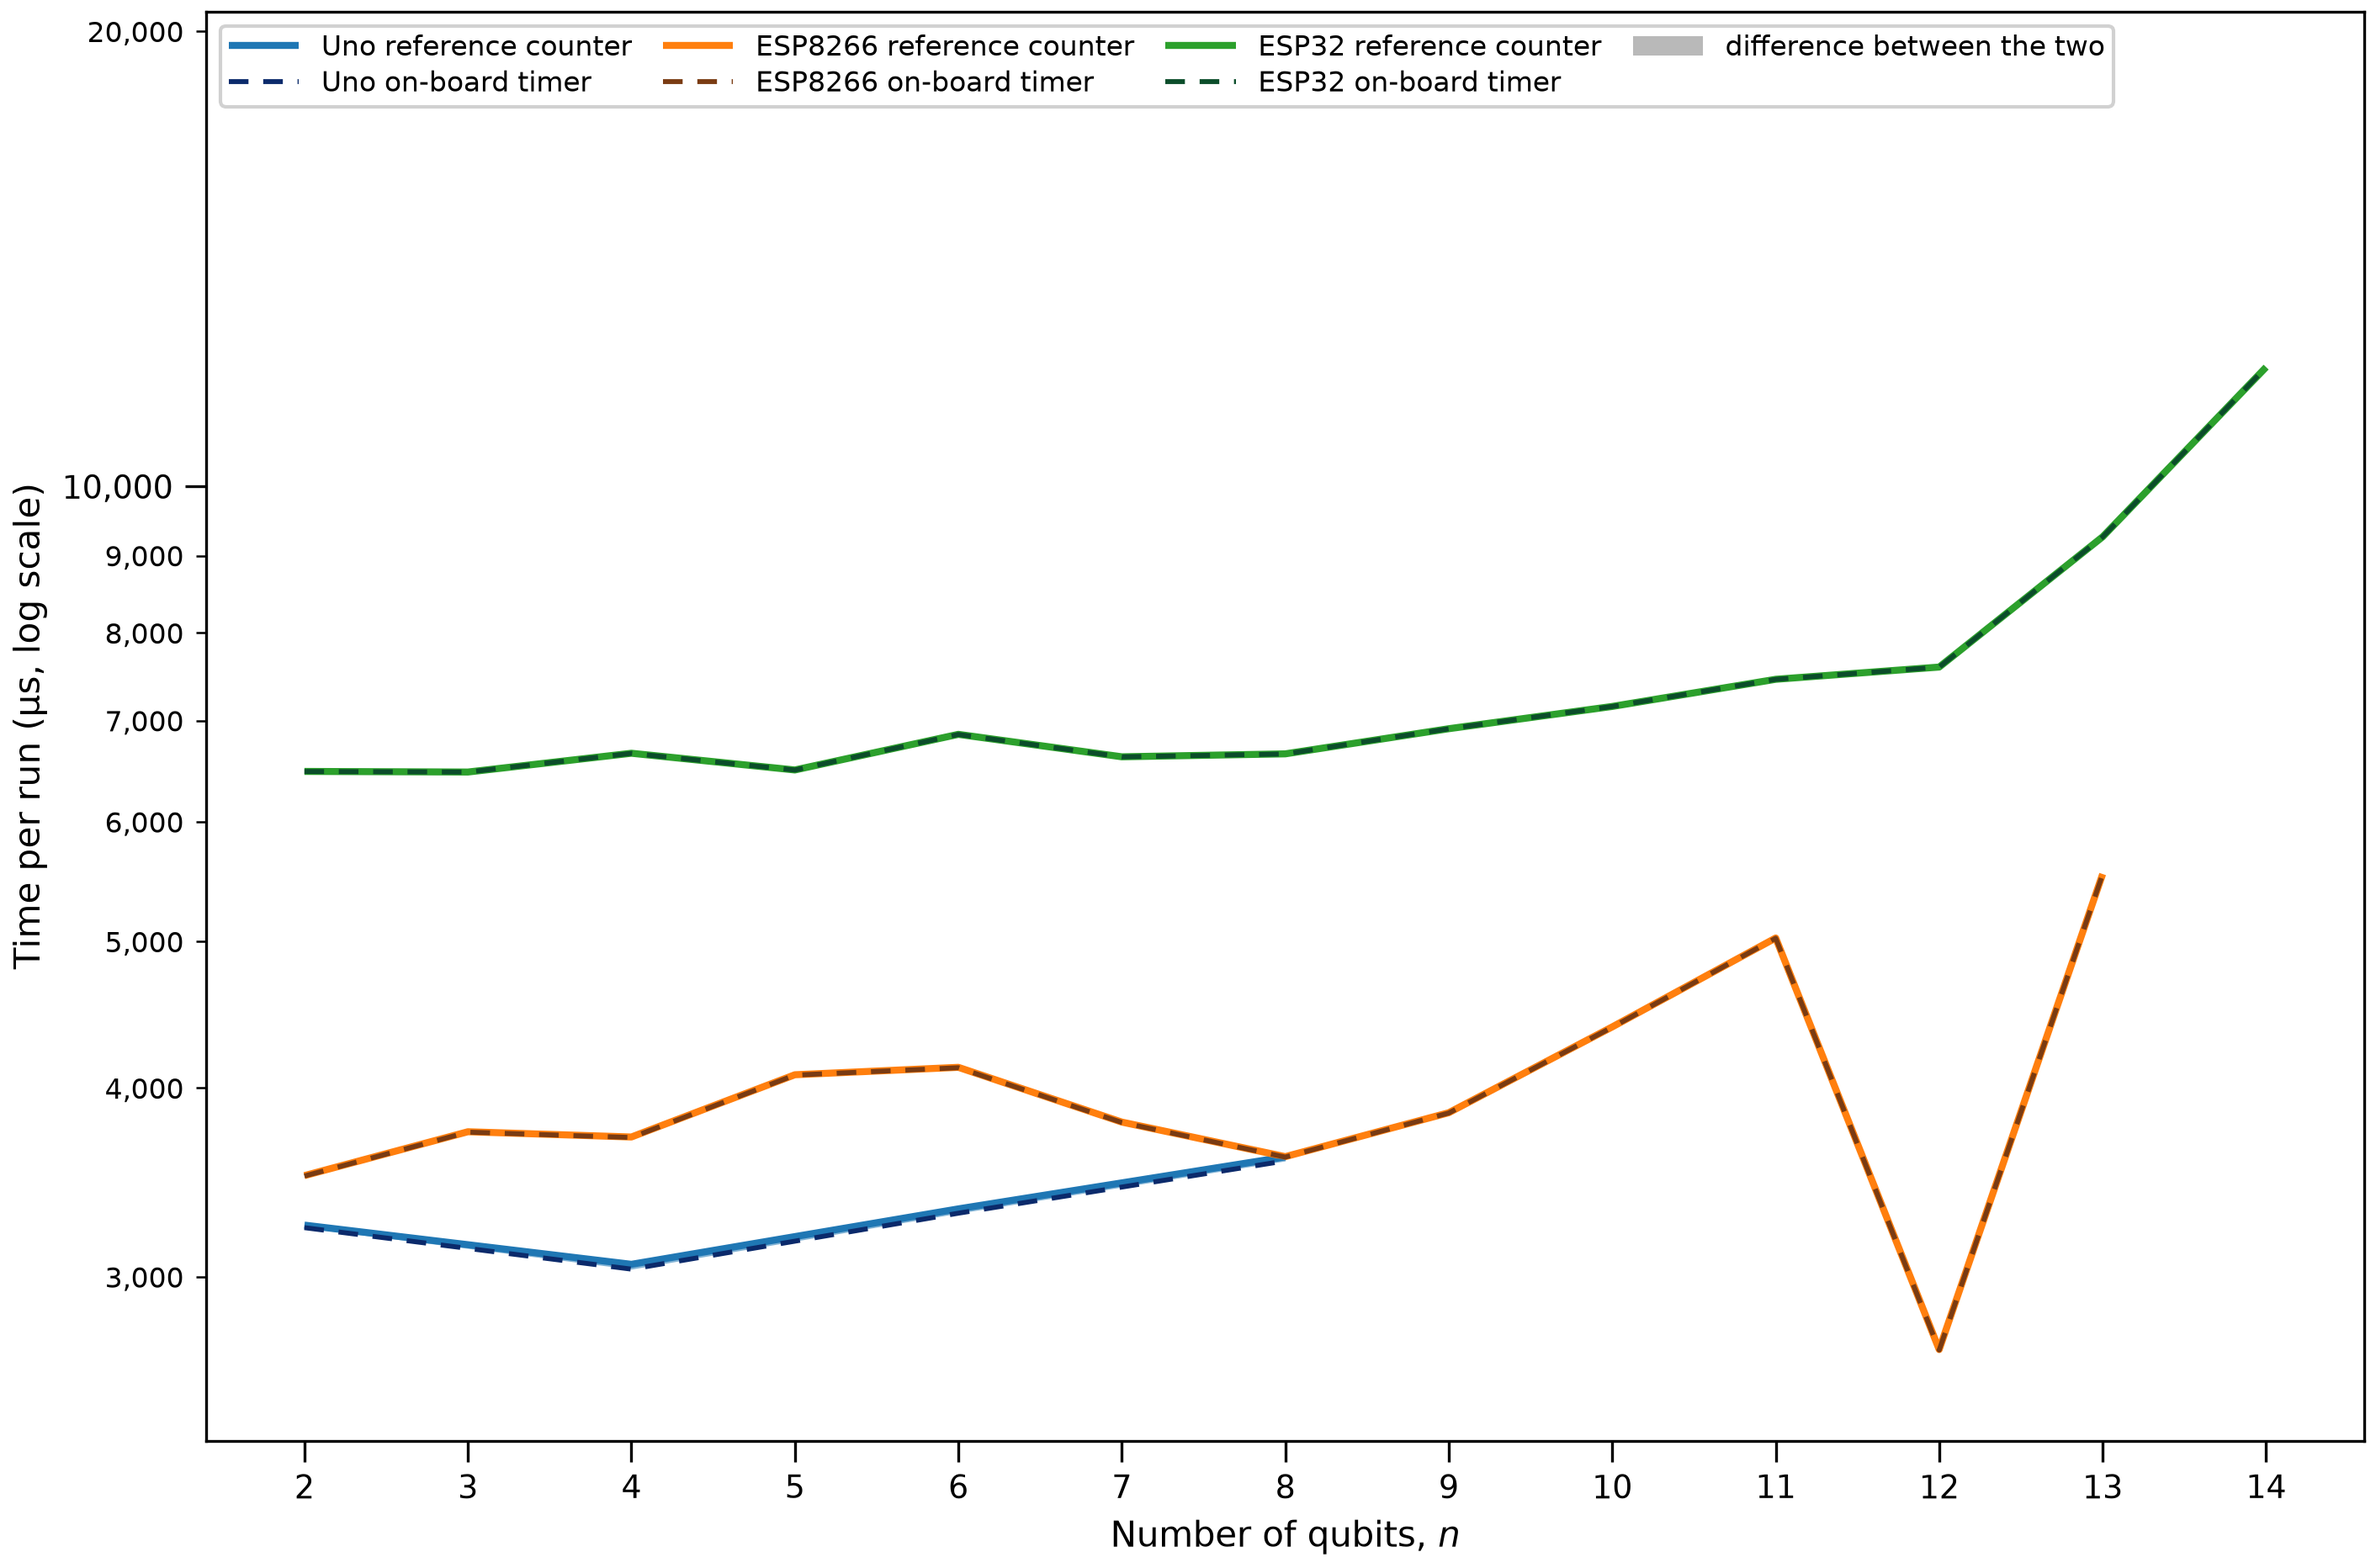
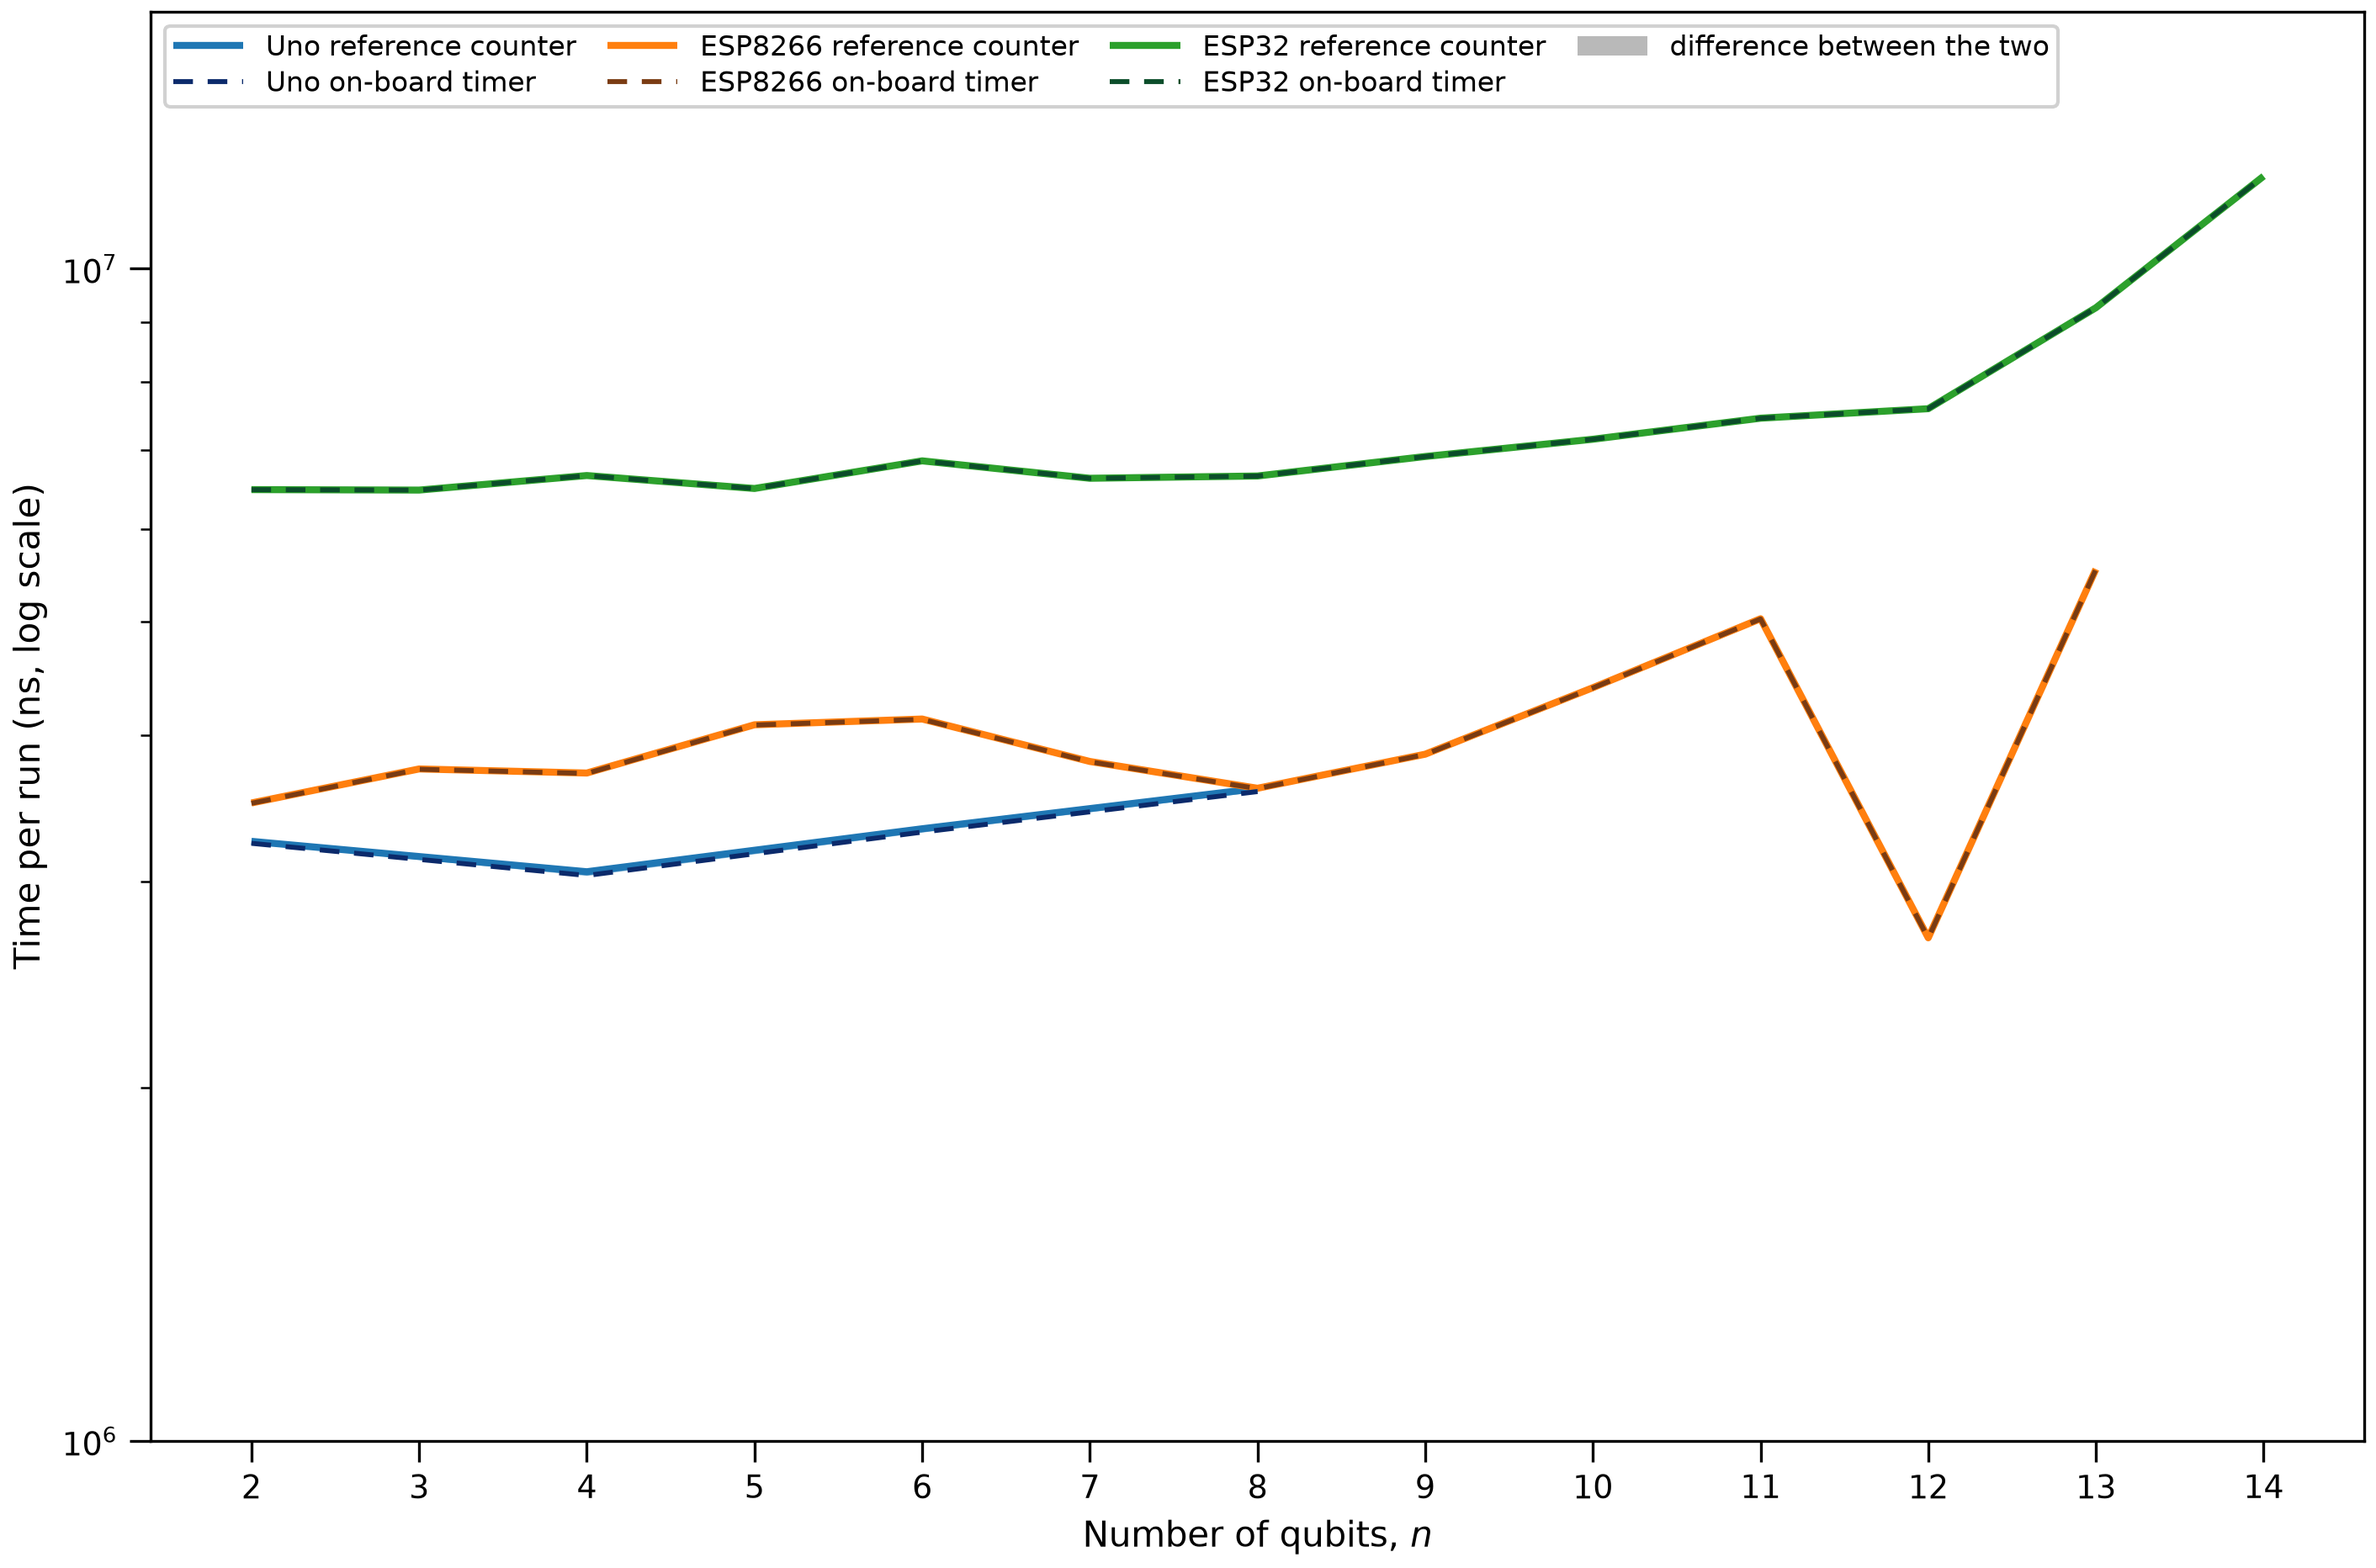
figures: revert the phase 3 plain-number y axis; phase 3 timer_vs_counter charts in nanoseconds
Claude-Session: https://claude.ai/code/session_01AE6WdfFceGc968bUQSKnsU

diff --git a/analysis/timer_vs_counter_house_plots.py b/analysis/timer_vs_counter_house_plots.py
@@ -29,6 +29,8 @@ cv = sel[(sel.usable.astype(bool) | (sel.n == 2)) & (sel.counter_median_us > 0) 
 miss2 = sel.iloc[0:0]
 NAME = {"uno": "Uno", "esp8266": "ESP8266", "esp32": "ESP32"}
 for ph in (2, 3):
+    U = 1000.0 if ph == 3 else 1.0                       # Phase 3 charts are in nanoseconds (1 us = 1000 ns), Phase 2 in microseconds
+    UNIT = "ns" if ph == 3 else "µs"
     for c in ("h_all", "bell_ghz", "qft", "grover"):
         g = cv[(cv.phase == ph) & (cv.circuit == c)]
         SER = ["reference counter", "on-board timer"]
@@ -36,13 +38,13 @@ for ph in (2, 3):
         rows = []
         for r in g.sort_values(["board", "n"]).itertuples():
             for lab, v in zip(SER, (r.counter_median_us, r.micros_median_us)):
-                rows.append({"n": int(r.n), "time_us": float(v), "board": NAME[r.board], "series": lab})
+                rows.append({"n": int(r.n), "time_us": float(v) * U, "board": NAME[r.board], "series": lab})
         m2 = miss2[(miss2.phase == ph) & (miss2.circuit == c)]
         for r in m2.itertuples():
             rows.append({"n": 2, "time_us": float(r.micros_median_us), "board": NAME[r.board], "series": SER[1]})
         df = pd.DataFrame(rows)
         fig, ax = plot_grouped_lines(df, "n", "time_us", "board", "series", title="", xlabel="Number of qubits, $n$",
-                                     ylabel=r"Time per run (µs, log scale)",
+                                     ylabel=f"Time per run ({UNIT}, log scale)",
                                      group_order=list(NAME.values()), series_order=SER)
         for ln in ax.lines:                                   # one colour per board; line style tells the clock
             lab = ln.get_label()
@@ -61,7 +63,7 @@ for ph in (2, 3):
         for gi, bn in enumerate(NAME.values()):                # shade the gap between the two clocks, in the board's colour
             gg = g[g.board == inv[bn]].sort_values("n")
             if len(gg):
-                ax.fill_between(gg.n, gg.counter_median_us, gg.micros_median_us, color=FAMILIES[gi][0], alpha=0.55, lw=0, zorder=3)
+                ax.fill_between(gg.n, gg.counter_median_us * U, gg.micros_median_us * U, color=FAMILIES[gi][0], alpha=0.55, lw=0, zorder=3)
         hs, ls = ax.get_legend_handles_labels()
         hs.append(Patch(facecolor="0.5", alpha=0.55, label="difference between the two"))
         ls.append("difference between the two")
@@ -74,13 +76,6 @@ for ph in (2, 3):
         ax.yaxis.set_minor_locator(mticker.LogLocator(base=10, subs=np.arange(2, 10), numticks=60))
         ax.yaxis.set_minor_formatter(mticker.NullFormatter())
         ax.tick_params(axis="y", which="minor", length=3, direction="out")
-        if ph == 3:                                           # Phase 3 spans only about 1.5 decades: label every tick (2, 3, ... 9 x 10^k) with plain numbers
-            fmt = mticker.FuncFormatter(lambda v, _: f"{v:,.0f}")
-            ax.yaxis.set_major_formatter(fmt)
-            ax.yaxis.set_minor_formatter(fmt)
-            ax.tick_params(axis="y", which="minor", labelsize=8)
-            llo, lhi = np.log10(lo), np.log10(hi)                  # and fit the axis to the data instead of whole decades
-            ax.set_ylim(10 ** (llo - 0.06), 10 ** (lhi + 0.30 * (lhi - llo) + 0.04))
         out = os.path.join(ROOT, "data", "figures", f"phase{ph}", "timer_vs_counter", f"{c}.png")
         os.makedirs(os.path.dirname(out), exist_ok=True)
         save_figure(fig, out)
